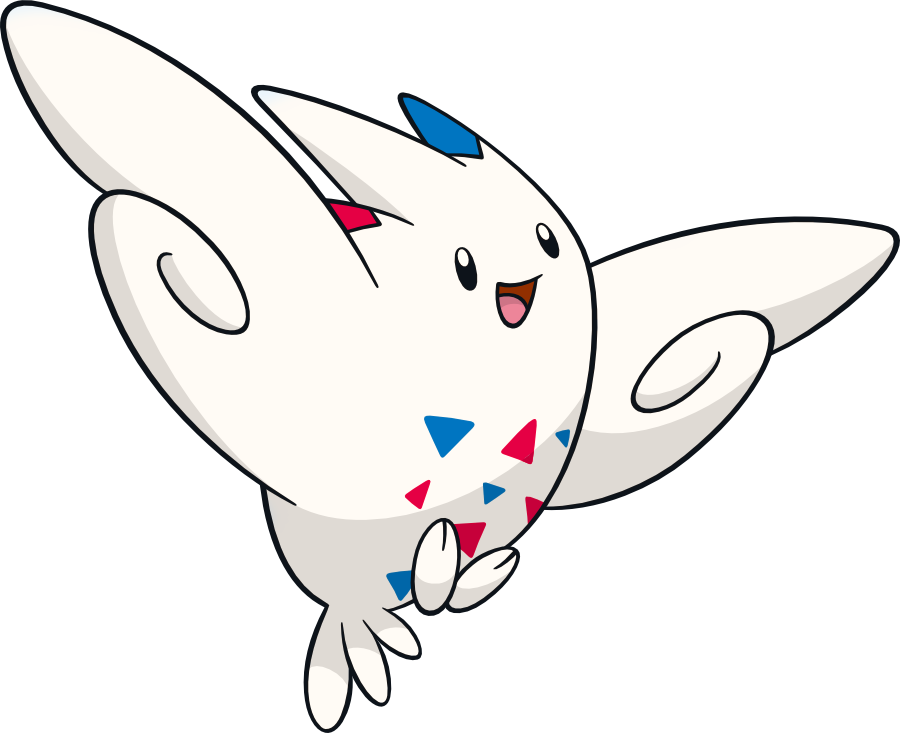
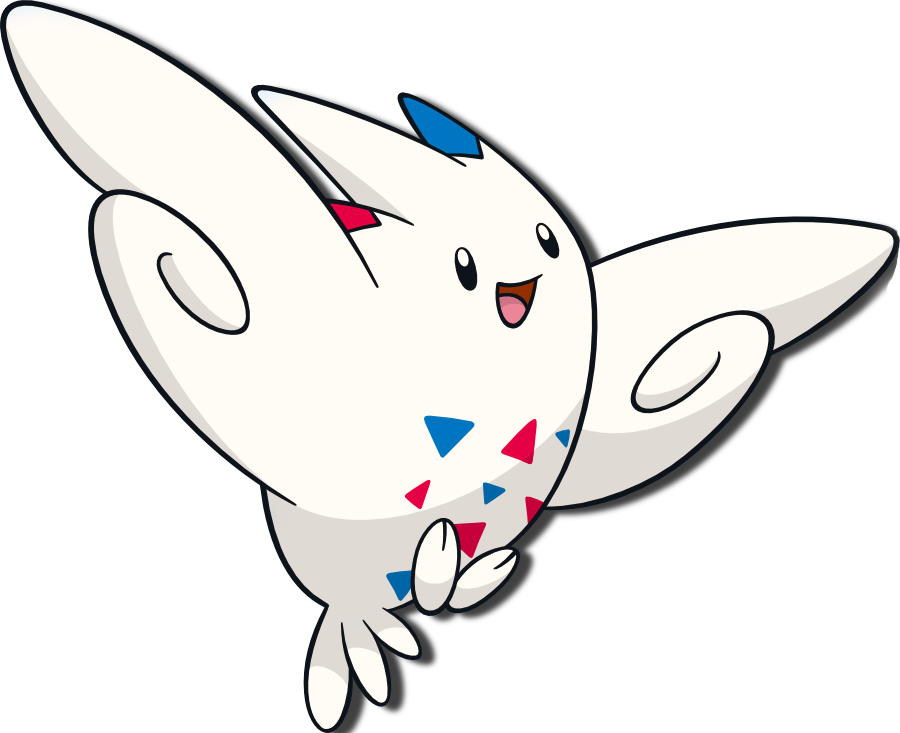
fix: Fixed mobile bugs
Fixed line height in footer, media response ordering for the event image, and making togekiss slightly bigger

diff --git a/src/routes/+page.svelte b/src/routes/+page.svelte
@@ -3,6 +3,14 @@
 	<meta name="description" content="Svelte demo app" />
 </svelte:head>
 
+<script>
+	function copyToClipboard() {
+		navigator.clipboard.writeText("PixelTown.apexmc.co").then(() => {
+			alert("Server IP copied to clipboard!");
+		});
+	}
+</script>
+
 <div class="hero-container">
 	<section class="hero full-width">
 			<h1>Welcome to PixelTown!</h1>
@@ -27,8 +35,12 @@
 					<li>Explore our <strong><a href="/Store" class="main-links">Store</a></strong> for unique and affordable items.</li>
 					<li>Join the server by heading over to the <strong><a href="/Join" class="main-links">Join</a></strong> section.</li>
 				</ul>
-				<img src="/Togekiss.png" alt="Togekiss" style="width: 35%; display: block; margin: 0 auto;">
-				<p style="font-size: 200%; text-align: center;">Come join us at <a href="#" class="ip-link">our server IP</a> and be part of the fun!</p>
+				<img src="/Togekiss.png" alt="Togekiss" style="width: 70%; display: block; margin: 0 auto;">
+				<p style="font-size: 200%; text-align: center;">
+					Come join us at 
+					<a href="#" class="ip-link" on:click|preventDefault={copyToClipboard}>our server IP</a> 
+					and be part of the fun!
+				</p>
 			</div>
 		</div>
 	</section>
